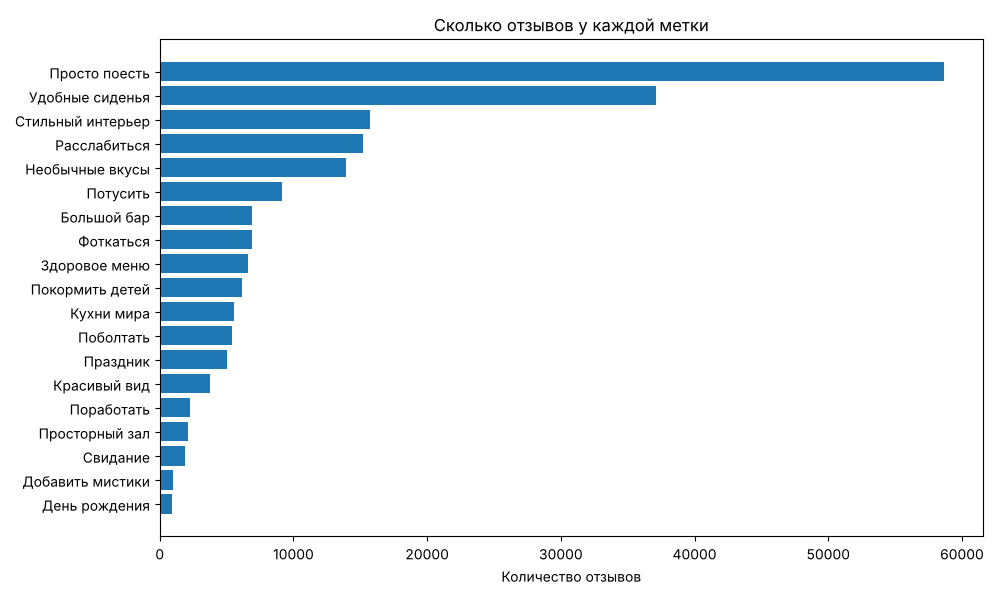
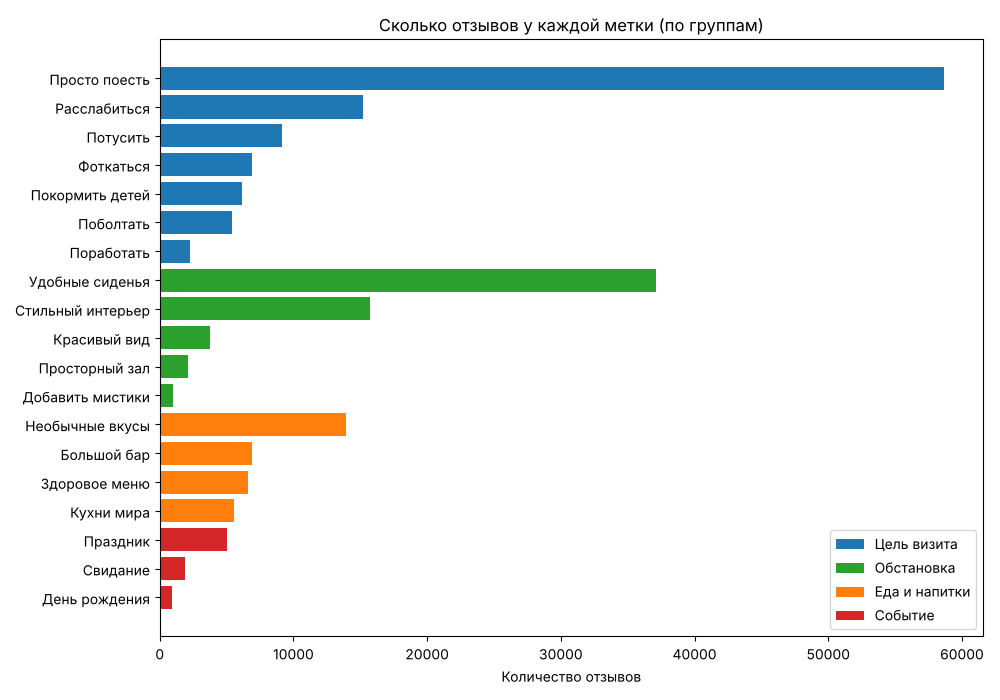
step1: check unique branches; step3: grouped label chart, labels per review, reviews per branch

Changed region(s): [[0.0, 0.09, 0.961, 0.87], [0.155, 0.75, 0.992, 0.99], [0.186, 0.03, 0.961, 0.06]]

diff --git a/step3_stats.py b/step3_stats.py
@@ -25,12 +25,44 @@ length = df["text"].str.len()
 print("\nДлина текста: мин", length.min(), "| макс", length.max(),
       "| средняя", round(length.mean()), "| медиана", length.median())
 
-# график 1: столбики по меткам
-plt.figure(figsize=(10, 6))
-plt.barh(counts.index, counts.values)
-plt.gca().invert_yaxis()  # самая частая метка сверху
+# группы меток по смыслу (в данных 2ГИС групп нет, мы их придумали сами)
+groups = {
+    "Цель визита": ["Просто поесть", "Расслабиться", "Потусить", "Фоткаться",
+                    "Покормить детей", "Поболтать", "Поработать"],
+    "Обстановка": ["Удобные сиденья", "Стильный интерьер", "Красивый вид",
+                   "Просторный зал", "Добавить мистики"],
+    "Еда и напитки": ["Необычные вкусы", "Большой бар", "Здоровое меню", "Кухни мира"],
+    "Событие": ["Праздник", "Свидание", "День рождения"],
+}
+colors = {"Цель визита": "tab:blue", "Обстановка": "tab:green",
+          "Еда и напитки": "tab:orange", "Событие": "tab:red"}
+
+print("\nОтзывов по группам (хотя бы одна метка группы):")
+for group, group_labels in groups.items():
+    n = (df[group_labels].sum(axis=1) > 0).sum()
+    print(f"{group}: {n}")
+
+# график 1: столбики по меткам, метки идут по группам,
+# внутри группы - от частой к редкой, у каждой группы свой цвет
+names = []
+values = []
+bar_colors = []
+for group, group_labels in groups.items():
+    group_counts = counts[group_labels].sort_values(ascending=False)
+    for label in group_counts.index:
+        names.append(label)
+        values.append(group_counts[label])
+        bar_colors.append(colors[group])
+
+plt.figure(figsize=(10, 7))
+plt.barh(names, values, color=bar_colors)
+plt.gca().invert_yaxis()  # первая группа сверху
+# легенда: по одному цветному прямоугольнику на группу
+for group, color in colors.items():
+    plt.bar(0, 0, color=color, label=group)
+plt.legend()
 plt.xlabel("Количество отзывов")
-plt.title("Сколько отзывов у каждой метки")
+plt.title("Сколько отзывов у каждой метки (по группам)")
 plt.tight_layout()
 plt.savefig("images/labels_count.png")
 
@@ -42,5 +74,34 @@ plt.ylabel("Количество отзывов")
 plt.title("Длина отзывов (показаны отзывы до 1000 символов)")
 plt.tight_layout()
 plt.savefig("images/text_length.png")
+
+# график 3: сколько меток у одного отзыва (в процентах)
+per_review_percent = labels_per_review.value_counts(normalize=True).sort_index() * 100
+plt.figure(figsize=(8, 5))
+plt.bar(per_review_percent.index, per_review_percent.values)
+for x, y in zip(per_review_percent.index, per_review_percent.values):
+    plt.text(x, y + 1, f"{y:.1f}%", ha="center")  # подпись над столбиком
+plt.xlabel("Сколько меток у отзыва")
+plt.ylabel("Доля отзывов, %")
+plt.title("Распределение отзывов по числу меток")
+plt.tight_layout()
+plt.savefig("images/labels_per_review.png")
+
+# 4. сколько отзывов у одного заведения
+reviews_per_branch = df["branch_id"].value_counts()
+print("\nЗаведений с отзывами:", len(reviews_per_branch))
+print("Отзывов на заведение: мин", reviews_per_branch.min(),
+      "| макс", reviews_per_branch.max(),
+      "| среднее", round(reviews_per_branch.mean(), 1),
+      "| медиана", reviews_per_branch.median())
+
+# график 4: гистограмма "сколько отзывов у заведения"
+plt.figure(figsize=(10, 5))
+plt.hist(reviews_per_branch, bins=range(1, 96))
+plt.xlabel("Отзывов у заведения")
+plt.ylabel("Количество заведений")
+plt.title("Распределение отзывов по заведениям")
+plt.tight_layout()
+plt.savefig("images/reviews_per_branch.png")
 
 print("\nГрафики сохранены в папку images/")

diff --git a/step1_look.py b/step1_look.py
@@ -8,6 +8,18 @@ with open("data/task_2_vibes.json", encoding="utf-8") as f:
 # data - это список. Один элемент списка = одно заведение (кафе, ресторан)
 print("Всего заведений:", len(data))
 
+# Проверяем, что заведения не повторяются:
+# set() оставляет только разные значения branch_id
+ids = [place["branch_id"] for place in data]
+print("Разных branch_id:", len(set(ids)))
+
+# Считаем заведения, у которых есть хотя бы один отзыв с меткой
+with_reviews = 0
+for place in data:
+    if len(place["nlp"]["aspect"]) > 0:
+        with_reviews += 1
+print("Заведений с отзывами:", with_reviews)
+
 # Смотрим на первое заведение
 first = data[0]
 print("Поля заведения:", list(first.keys()))
